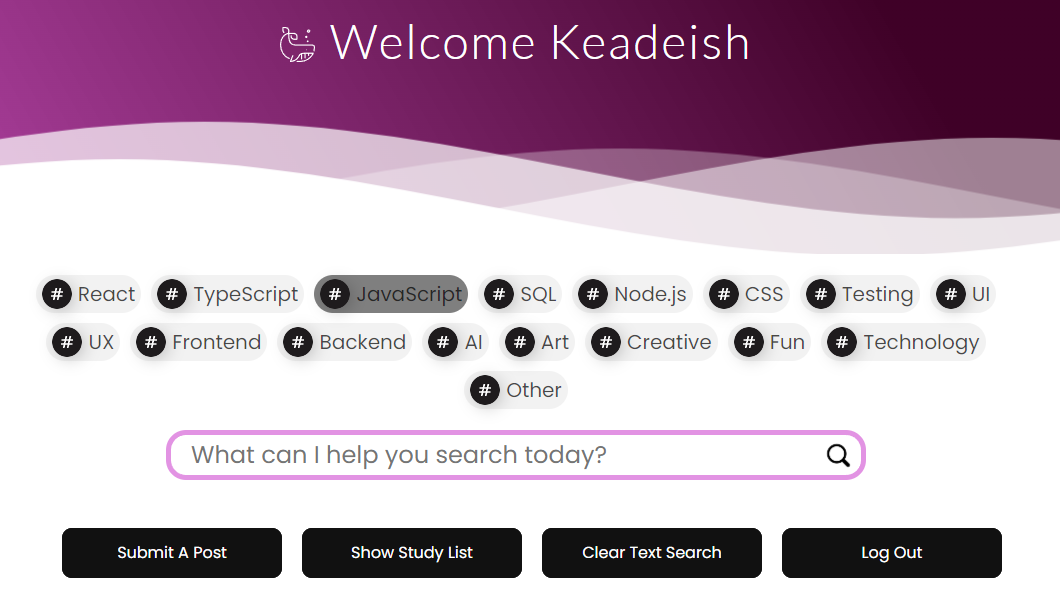
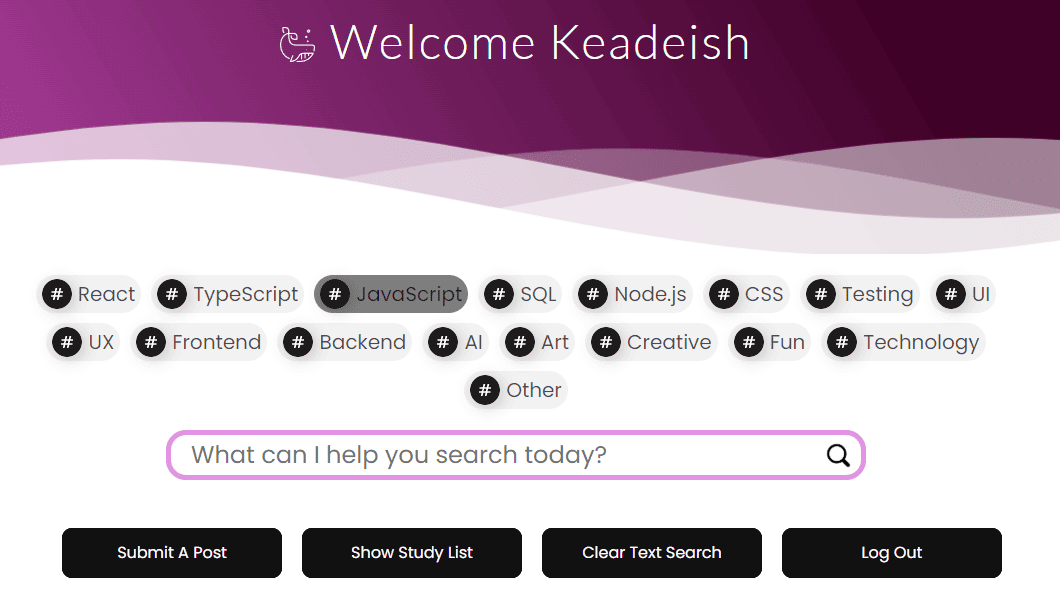
compressed images and made projects page more responsive

diff --git a/src/App.css b/src/App.css
@@ -71,6 +71,7 @@
 
 .projectCard {
   /* border: 1px solid red; */
+  position: relative;
   width: 23vw;
   background-color: #41423e;
 }
@@ -82,6 +83,10 @@
 
 #projectCardTitle {
   font-family: "Courier New", Courier, monospace;
+  height: 5vh;
+  display: flex;
+  align-items: center;
+  justify-content: center;
   text-align: center;
   font-size: 1.5rem;
   color: white;
@@ -89,9 +94,13 @@
 
 #projectDescription {
   /* border: 1px solid red; */
+  padding-left: 0.5vw;
+  padding-right: 0.5vw;
   color: white;
   font-size: 1rem;
   height: 10vh;
+  max-height: 10vh;
+  overflow: auto;
 }
 
 #projectsLinkButton {
@@ -99,10 +108,16 @@
   height: 2vh;
   margin-left: auto;
   display: block;
+  position: absolute;
+  bottom: 0%;
+  right: 0%;
 }
 
 #technologyBox {
+  padding-left: 0.5vw;
+  padding-right: 0.5vw;
   margin-top: 1vh;
+  /* margin-bottom: 3vh;  */
   display: flex;
   flex-wrap: wrap;
   /* display:inline-block; */
@@ -178,6 +193,9 @@
   #projectDescription {
     color: white;
     font-size: 1.2rem;
+    padding-left: 1vw;
+    padding-right: 1vw;
+    overflow: auto;
   }
 
 }

diff --git a/src/components/ProjectCard.tsx b/src/components/ProjectCard.tsx
@@ -20,6 +20,7 @@ export function ProjectCard(props: IProjectInfo): JSX.Element {
         ))}
 
       </div>
+      <br></br>
               <a href={props.URL}>
           <img
             id="projectsLinkButton"
